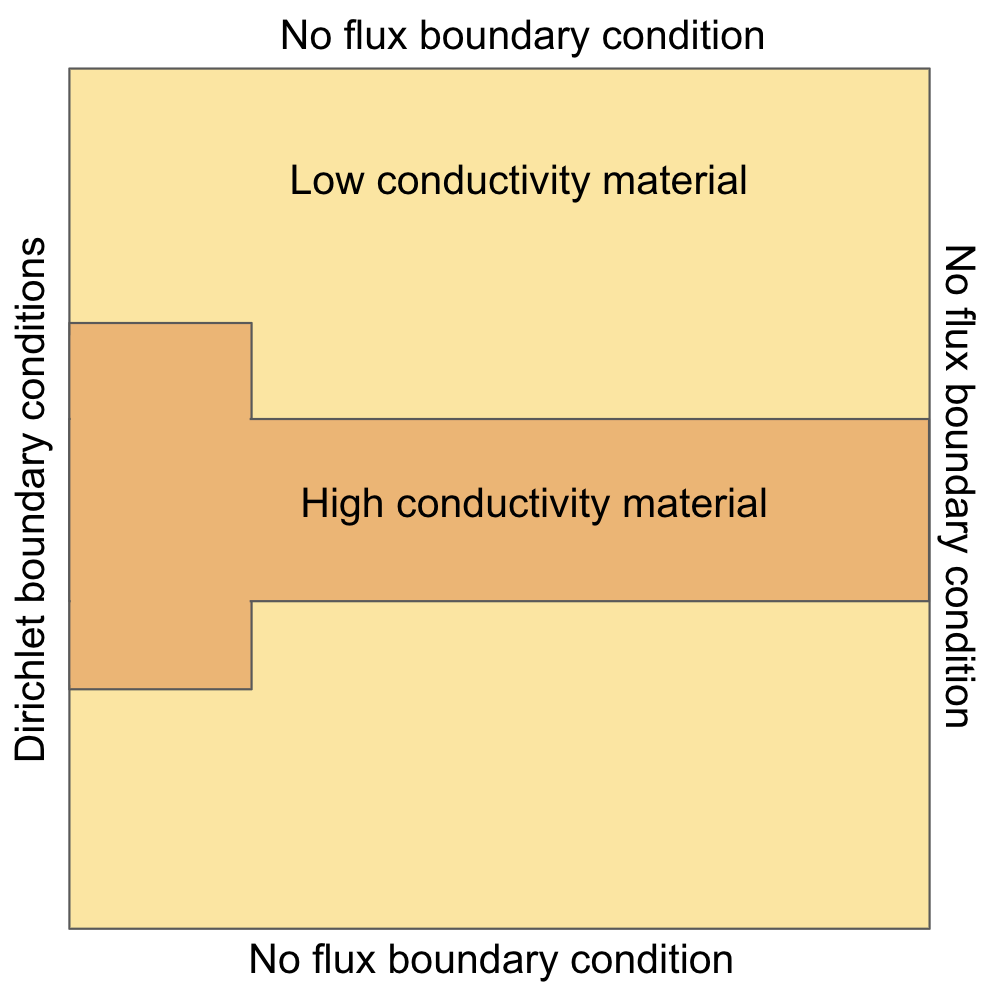
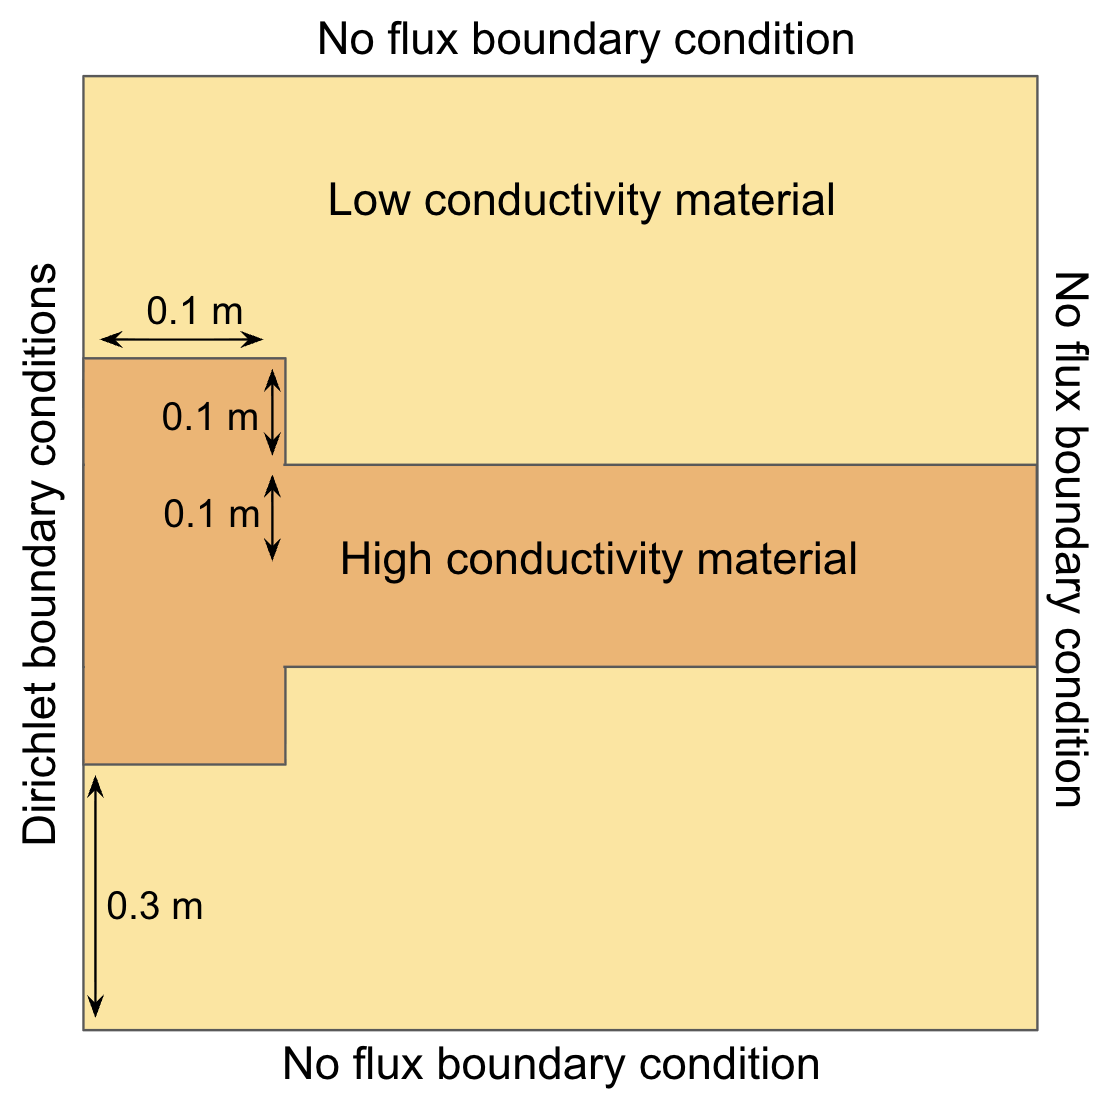
WIP: oscillations

diff --git a/_talks/oscillations_m_matrix.md b/_talks/oscillations_m_matrix.md
@@ -399,7 +399,7 @@ The above discussion does not restrict itself to 1D. In fact, the same behaviour
 
 <br>
 
-We choose a low thermal conductivity value of $k = 0.5$ [J/m $^\circ$ C s] and a high thermal conductivity value of $k = 20$ [J/m $^\circ$ C s]. The heat capacity is taken as $c = 10^6$ [J/m$^3$ $^\circ$ C]. The Dirichlet boundary conditions for $\theta(x, y, t)$ are
+We consdier the domain $\Omega = (0, 1)^2$ [m$^2$]. We choose a low thermal conductivity value of $k = 0.5$ [J/m $^\circ$ C s] and a high thermal conductivity value of $k = 20$ [J/m $^\circ$ C s]. The heat capacity is taken as $c = 10^6$ [J/m$^3$ $^\circ$ C]. The Dirichlet boundary conditions for $\theta(x, y, t)$ are
 
 $$
 \theta(0, y, t) = \begin{cases}
